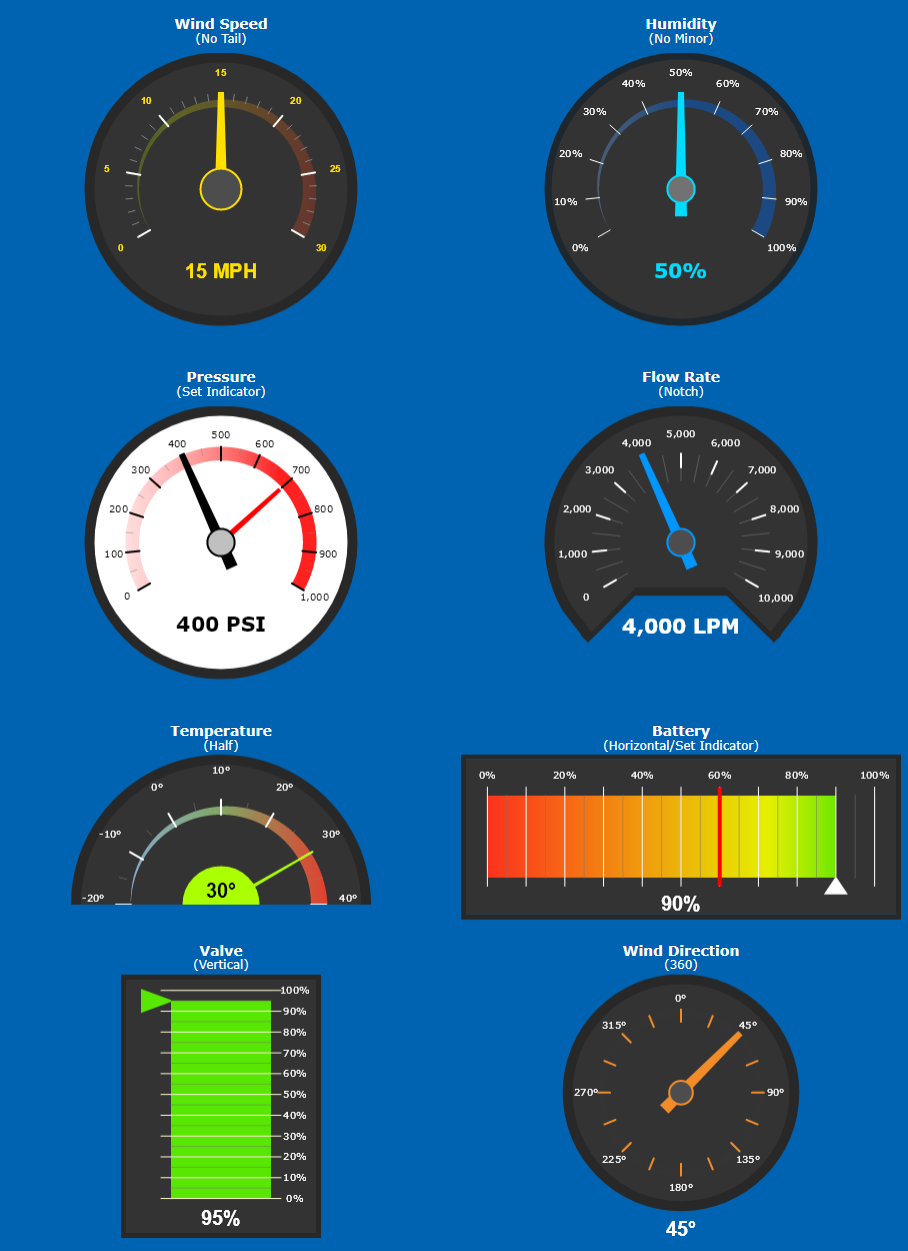
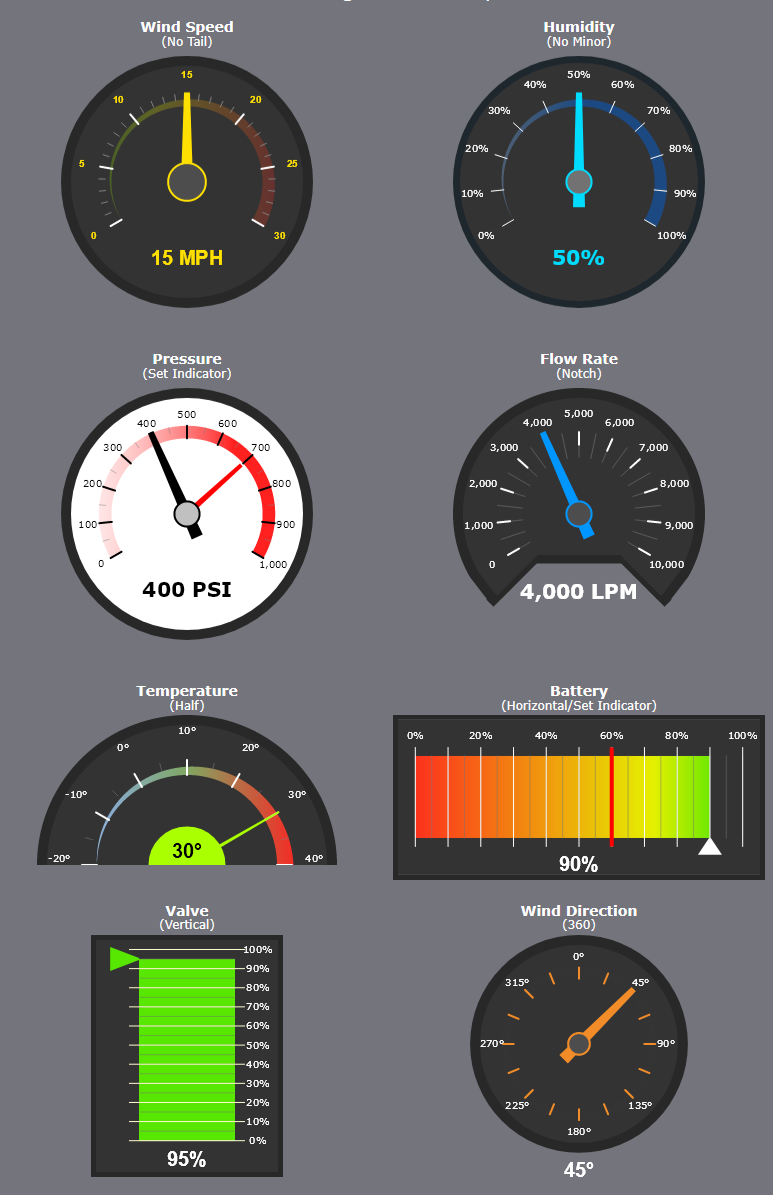
Examples Cleanup

diff --git a/Example/MicroGauge.Example.Maui/MainPage.xaml b/Example/MicroGauge.Example.Maui/MainPage.xaml
@@ -56,34 +56,33 @@
     </ContentPage.Resources>
 
     <!-- ReSharper all MarkupAttributeTypo -->
-    <StackLayout BackgroundColor="#0063b1">
-        <Label HorizontalTextAlignment="Center" VerticalTextAlignment="End"
-               Text="MicroGauge .Net Maui Examples" TextColor="White" FontSize="24" Margin="10" />
-        <Grid>
-            <Grid.RowDefinitions>
-                <RowDefinition Height="250" />
-                <RowDefinition Height="250" />
-                <RowDefinition Height="180" />
-                <RowDefinition Height="250" />
-            </Grid.RowDefinitions>
-            <Grid.ColumnDefinitions>
-                <ColumnDefinition Width="*" />
-                <ColumnDefinition Width="*" />
-            </Grid.ColumnDefinitions>
+    <ScrollView>
+        <StackLayout BackgroundColor="#74747c">
+            <Grid>
+                <Grid.RowDefinitions>
+                    <RowDefinition Height="225" />
+                    <RowDefinition Height="225" />
+                    <RowDefinition Height="150" />
+                    <RowDefinition Height="225" />
+                </Grid.RowDefinitions>
+                <Grid.ColumnDefinitions>
+                    <ColumnDefinition Width="*" />
+                    <ColumnDefinition Width="*" />
+                </Grid.ColumnDefinitions>
 
-            <!--WindSpeed-->
-            <Label Grid.Row="0" Grid.Column="0"
+                <!--WindSpeed-->
+                <Label Grid.Row="0" Grid.Column="0"
                    Style="{StaticResource ChartLabel}"
                    Text="Wind Speed"
                    Margin="0"
                    VerticalTextAlignment="Start" />
-            <Label Grid.Row="0" Grid.Column="0"
+                <Label Grid.Row="0" Grid.Column="0"
                        Style="{StaticResource ChartNote}"
                        Text="(No Tail)"
                        Margin="0,16,0,0"
                        VerticalTextAlignment="Start" />
 
-            <microGauge:MauiGaugeRadial
+                <microGauge:MauiGaugeRadial
                 Grid.Row="0"
                 Grid.Column="0"
                 BackingBrush="{StaticResource RadialGaugeBacking}"
@@ -129,18 +128,18 @@
                 RangeOuterStartExtent ="0.6"
                 RangeOuterEndExtent ="0.71" />
 
-            <!--Humidity (No Minor)-->
-            <Label Grid.Row="0" Grid.Column="1"
+                <!--Humidity (No Minor)-->
+                <Label Grid.Row="0" Grid.Column="1"
                    Style="{StaticResource ChartLabel}"
                    Text="Humidity"
                    Margin="0"
                    VerticalTextAlignment="Start" />
-            <Label Grid.Row="0" Grid.Column="1"
+                <Label Grid.Row="0" Grid.Column="1"
                        Style="{StaticResource ChartNote}"
                        Text="(No Minor)"
                        Margin="0,16,0,0"
                        VerticalTextAlignment="Start" />
-            <microGauge:MauiGaugeRadial
+                <microGauge:MauiGaugeRadial
                 Grid.Row="0"
                 Grid.Column="1"
                 BackingBrush="{StaticResource RadialGaugeBacking}"
@@ -180,18 +179,18 @@
                 RangeOuterStartExtent ="0.6"
                 RangeOuterEndExtent ="0.71" />
 
-            <!--Pressure (Set Indicator)-->
-            <Label Grid.Row="1" Grid.Column="0"
+                <!--Pressure (Set Indicator)-->
+                <Label Grid.Row="1" Grid.Column="0"
                    Style="{StaticResource ChartLabel}"
                    Text="Pressure"
                    Margin="0"
                    VerticalTextAlignment="Start" />
-            <Label Grid.Row="1" Grid.Column="0"
+                <Label Grid.Row="1" Grid.Column="0"
                        Style="{StaticResource ChartNote}"
                        Text="(Set Indicator)"
                        Margin="0,16,0,0"
                        VerticalTextAlignment="Start" />
-            <microGauge:MauiGaugeRadial
+                <microGauge:MauiGaugeRadial
                 Grid.Row="1"
                 Grid.Column="0"
                 BackingBrush="White"
@@ -241,18 +240,18 @@
 
 
 
-            <!--Flow Rate (Notch)-->
-            <Label Grid.Row="1" Grid.Column="1"
+                <!--Flow Rate (Notch)-->
+                <Label Grid.Row="1" Grid.Column="1"
                        Style="{StaticResource ChartLabel}"
                        Text="Flow Rate"
                        Margin="0"
                        VerticalTextAlignment="Start" />
-            <Label Grid.Row="1" Grid.Column="1"
+                <Label Grid.Row="1" Grid.Column="1"
                        Style="{StaticResource ChartNote}"
                        Text="(Notch)"
                        Margin="0,16,0,0"
                        VerticalTextAlignment="Start" />
-            <microGauge:MauiGaugeRadial
+                <microGauge:MauiGaugeRadial
                 Grid.Row="1"
                 Grid.Column="1"
                 RadialStyle="Notch"
@@ -291,18 +290,18 @@
                 NeedleEndExtent="0.71"
                 NeedleEndWidth="3"/>
 
-            <!--Temperature (Half)-->
-            <Label Grid.Row="2" Grid.Column="0"
+                <!--Temperature (Half)-->
+                <Label Grid.Row="2" Grid.Column="0"
                    Style="{StaticResource ChartLabel}"
                    Text="Temperature"
                    Margin="0"
                    VerticalTextAlignment="Start" />
-            <Label Grid.Row="2" Grid.Column="0"
+                <Label Grid.Row="2" Grid.Column="0"
                        Style="{StaticResource ChartNote}"
                        Text="(Half)"
                        Margin="0,16,0,0"
                        VerticalTextAlignment="Start" />
-            <microGauge:MauiGaugeRadial
+                <microGauge:MauiGaugeRadial
                 Grid.Row="2"
                 Grid.Column="0"
                 RadialStyle="Half"
@@ -351,18 +350,18 @@
                 RangeOuterEndExtent ="0.71" />
 
 
-            <!--Battery (Horizontal/Set Indicator)-->
-            <Label Grid.Row="2" Grid.Column="1"
+                <!--Battery (Horizontal/Set Indicator)-->
+                <Label Grid.Row="2" Grid.Column="1"
                    Style="{StaticResource ChartLabel}"
                    Text="Battery"
                    Margin="0"
                    VerticalTextAlignment="Start" />
-            <Label Grid.Row="2" Grid.Column="1"
+                <Label Grid.Row="2" Grid.Column="1"
                        Style="{StaticResource ChartNote}"
                        Text="(Horizontal/Set Indicator)"
                        Margin="0,16,0,0"
                        VerticalTextAlignment="Start" />
-            <microGauge:MauiGaugeLinear
+                <microGauge:MauiGaugeLinear
                 Grid.Row="2"
                 Grid.Column="1"
                 BottomExtent="0.0"
@@ -410,18 +409,18 @@
                 SetNeedleEndWidth="2"
                 ValueBarBrush="{StaticResource BrushBattery}" />
 
-            <!--Valve-->
-            <Label Grid.Row="3" Grid.Column="0"
+                <!--Valve-->
+                <Label Grid.Row="3" Grid.Column="0"
                    Style="{StaticResource ChartLabel}"
                    Text="Valve"
                    Margin="0"
                    VerticalTextAlignment="Start" />
-            <Label Grid.Row="3" Grid.Column="0"
+                <Label Grid.Row="3" Grid.Column="0"
                        Style="{StaticResource ChartNote}"
                        Text="(Vertical)"
                        Margin="0,16,0,0"
                        VerticalTextAlignment="Start" />
-            <microGauge:MauiGaugeLinear
+                <microGauge:MauiGaugeLinear
                 Grid.Row="3"
                 Grid.Column="0"
                 BottomExtent="0.15"
@@ -464,18 +463,18 @@
                 NeedleEndExtent="0.25"
                 ValueBarBrush="#57E700" />
 
-            <!--Wind Direction (360)-->
-            <Label Grid.Row="3" Grid.Column="1"
+                <!--Wind Direction (360)-->
+                <Label Grid.Row="3" Grid.Column="1"
                        Style="{StaticResource ChartLabel}"
                        Text="Wind Direction"
                        Margin="0"
                        VerticalTextAlignment="Start" />
-            <Label Grid.Row="3" Grid.Column="1"
+                <Label Grid.Row="3" Grid.Column="1"
                        Style="{StaticResource ChartNote}"
                        Text="(360)"
                        Margin="0,16,0,0"
                        VerticalTextAlignment="Start" />
-            <microGauge:MauiGaugeRadial
+                <microGauge:MauiGaugeRadial
                 Grid.Row="3"
                 Grid.Column="1"
                 BottomExtent="0.1"
@@ -516,7 +515,8 @@
                 NeedlePivotOutlineBrush="#F28C28"
                 NeedleStartExtent="-0.2"
                 NeedleEndExtent="0.71" />
-        </Grid>
-    </StackLayout>
+            </Grid>
+        </StackLayout>
+    </ScrollView>
 
 </ContentPage>

diff --git a/Example/MicroGauge.Example.Forms/MicroGauge.Example.Forms/MainPage.xaml b/Example/MicroGauge.Example.Forms/MicroGauge.Example.Forms/MainPage.xaml
@@ -56,7 +56,7 @@
         </ResourceDictionary>
     </ContentPage.Resources>
     <!-- ReSharper all MarkupAttributeTypo -->
-    <StackLayout BackgroundColor="#0063b1">
+    <StackLayout BackgroundColor="#74747c">
         <Label HorizontalTextAlignment="Center" VerticalTextAlignment="End"
                Text="MicroGauge Xamarin.Forms Examples" TextColor="White" FontSize="16" Margin="10,50,10,0" />
         <Grid>

diff --git a/Example/MicroGauge.Example.Wpf/MainWindow.xaml b/Example/MicroGauge.Example.Wpf/MainWindow.xaml
@@ -57,7 +57,7 @@
     </Window.Resources>
 
     <ScrollViewer VerticalScrollBarVisibility="Auto" HorizontalScrollBarVisibility="Auto">
-        <Grid Background="#0063b1">
+        <Grid Background="#74747c">
             <Grid.RowDefinitions>
                 <RowDefinition Height="Auto" />
                 <RowDefinition Height="*" />

diff --git a/Example/MicroGauge.Example.Maui/AppShell.xaml b/Example/MicroGauge.Example.Maui/AppShell.xaml
@@ -5,6 +5,8 @@
     xmlns:x="http://schemas.microsoft.com/winfx/2009/xaml"
     xmlns:local="clr-namespace:MicroGauge.Example.Maui"
     FlyoutBehavior="Disabled"
+    BackgroundColor="#74747c"
+    TitleColor="White"
     Title="MicroGauge.Example.Maui">
 
     <ShellContent

diff --git a/Example/MicroGauge.Example.Maui/App.xaml.cs b/Example/MicroGauge.Example.Maui/App.xaml.cs
@@ -15,7 +15,14 @@ public partial class App : Application
     {
         base.OnStart();
 
+        // Unhandled
+        AppDomain.CurrentDomain.UnhandledException += (s, e) =>
+        {
+            Console.WriteLine($"UnhandledException:{e.ExceptionObject}");
+        };
+
         // Restore window position
+        if (DeviceInfo.Current.Platform != DevicePlatform.WinUI) return;
         var window = Current?.Windows.FirstOrDefault();
         if (window == null) return;
         try
@@ -29,15 +36,10 @@ public partial class App : Application
         {
             Console.WriteLine($"Set Position: {ex.Message}");
         }
-
         window.Destroying += Window_Destroying;
 
 
-        // Unhandled
-        AppDomain.CurrentDomain.UnhandledException += (s, e) =>
-        {
-            Console.WriteLine($"UnhandledException:{e.ExceptionObject}");
-        };
+      
     }
    
 
